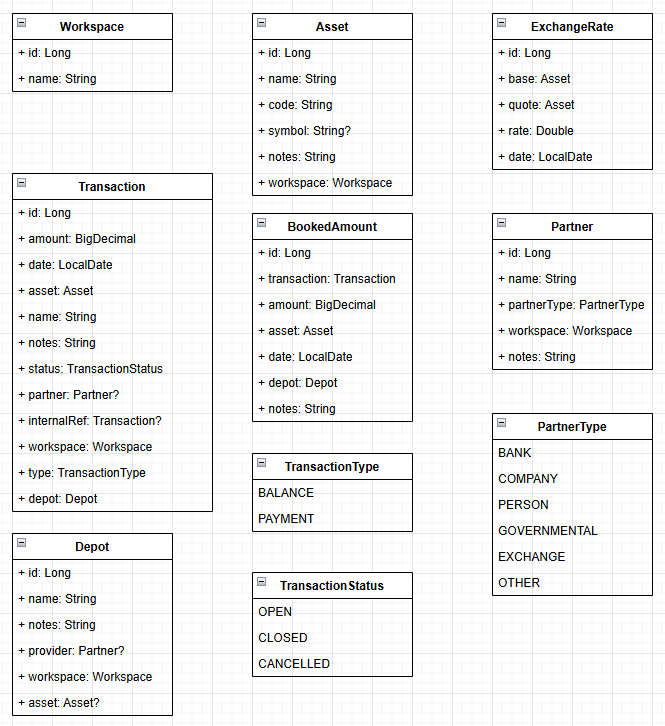
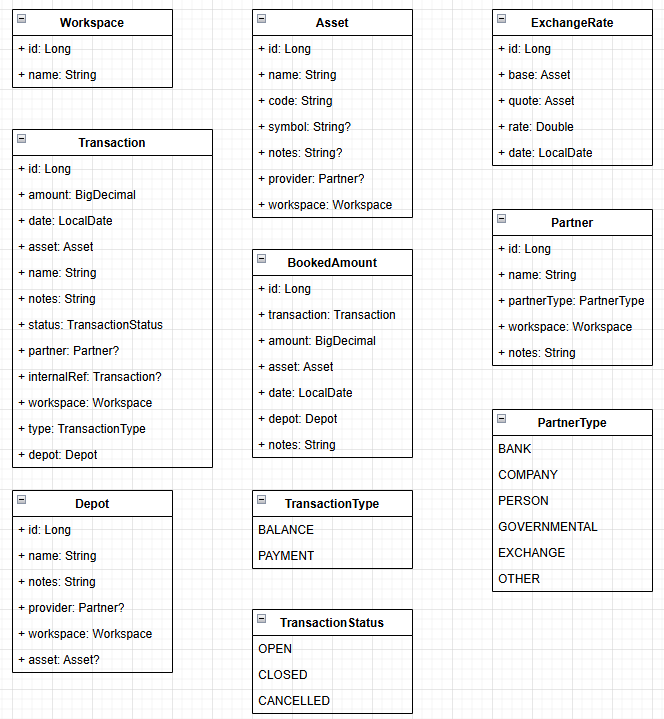
Add provider field to Asset class #3 (model changes)

diff --git a/src/main/webui/src/lib/types.ts b/src/main/webui/src/lib/types.ts
@@ -8,6 +8,7 @@ export interface Asset {
     name: string;
     code: string;
     workspace: Workspace;
+    provider?: Partner;
     symbol?: string;
     notes?: string;
 }

diff --git a/src/main/java/de/bethibande/finance/model/jpa/Asset.java b/src/main/java/de/bethibande/finance/model/jpa/Asset.java
@@ -1,7 +1,9 @@
 package de.bethibande.finance.model.jpa;
 
+import de.bethibande.finance.model.jpa.partner.Partner;
 import jakarta.persistence.Column;
 import jakarta.persistence.Entity;
+import jakarta.persistence.ManyToOne;
 import jakarta.validation.constraints.NotBlank;
 import jakarta.validation.constraints.Size;
 import org.hibernate.validator.constraints.Length;
@@ -15,7 +17,7 @@ public class Asset extends WorkspaceEntity {
     public String name;
 
     @NotBlank
-    @Size(min = 3, max = 8)
+    @Size(min = 3, max = 12)
     @Column(nullable = false)
     public String code;
 
@@ -26,5 +28,8 @@ public class Asset extends WorkspaceEntity {
     @Column
     @Length(max = 1024)
     public String notes;
+
+    @ManyToOne
+    public Partner provider;
 
 }
